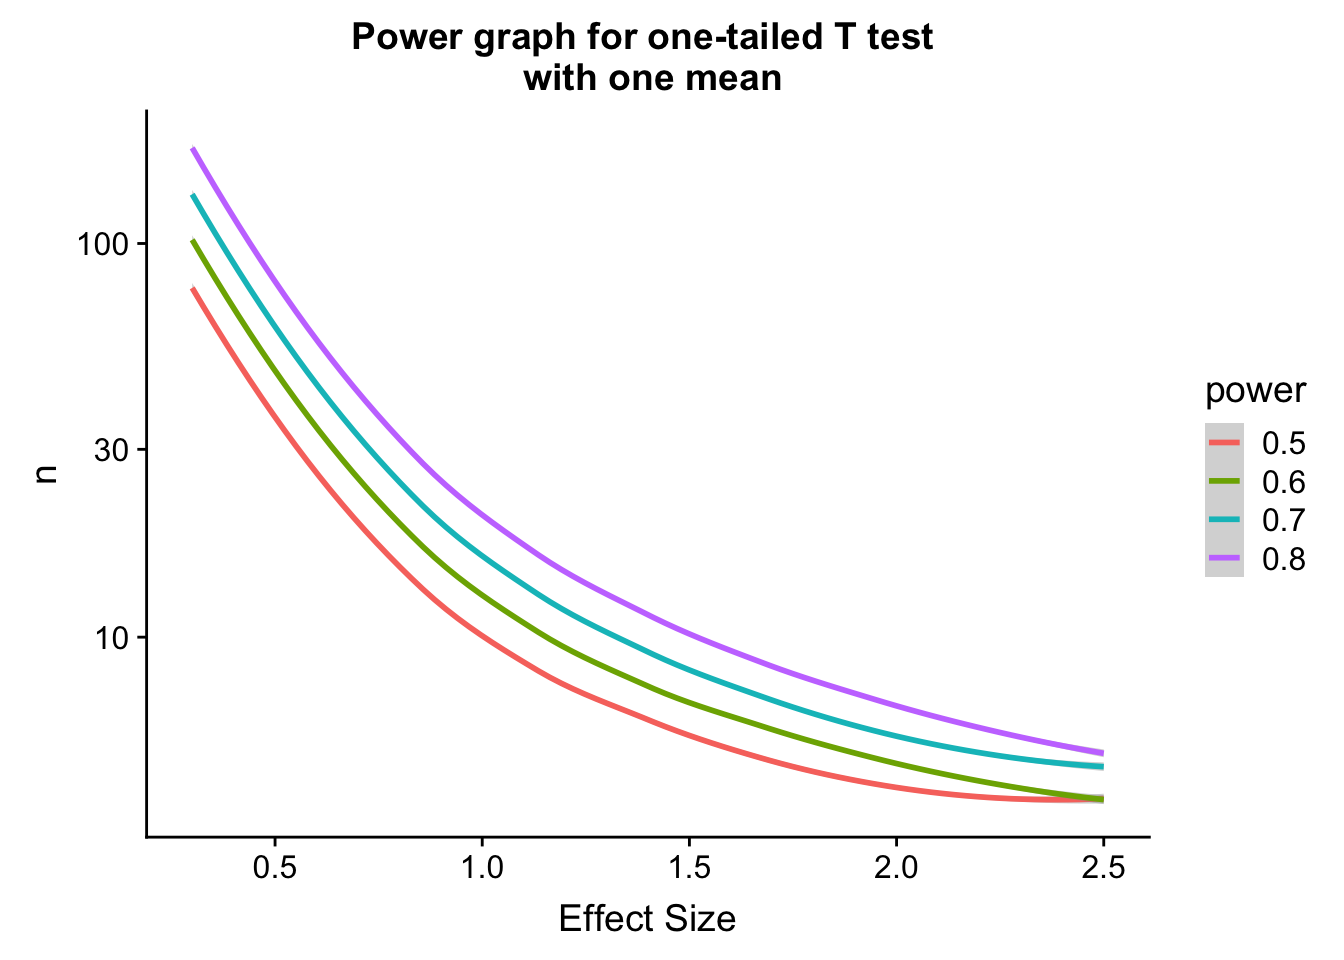
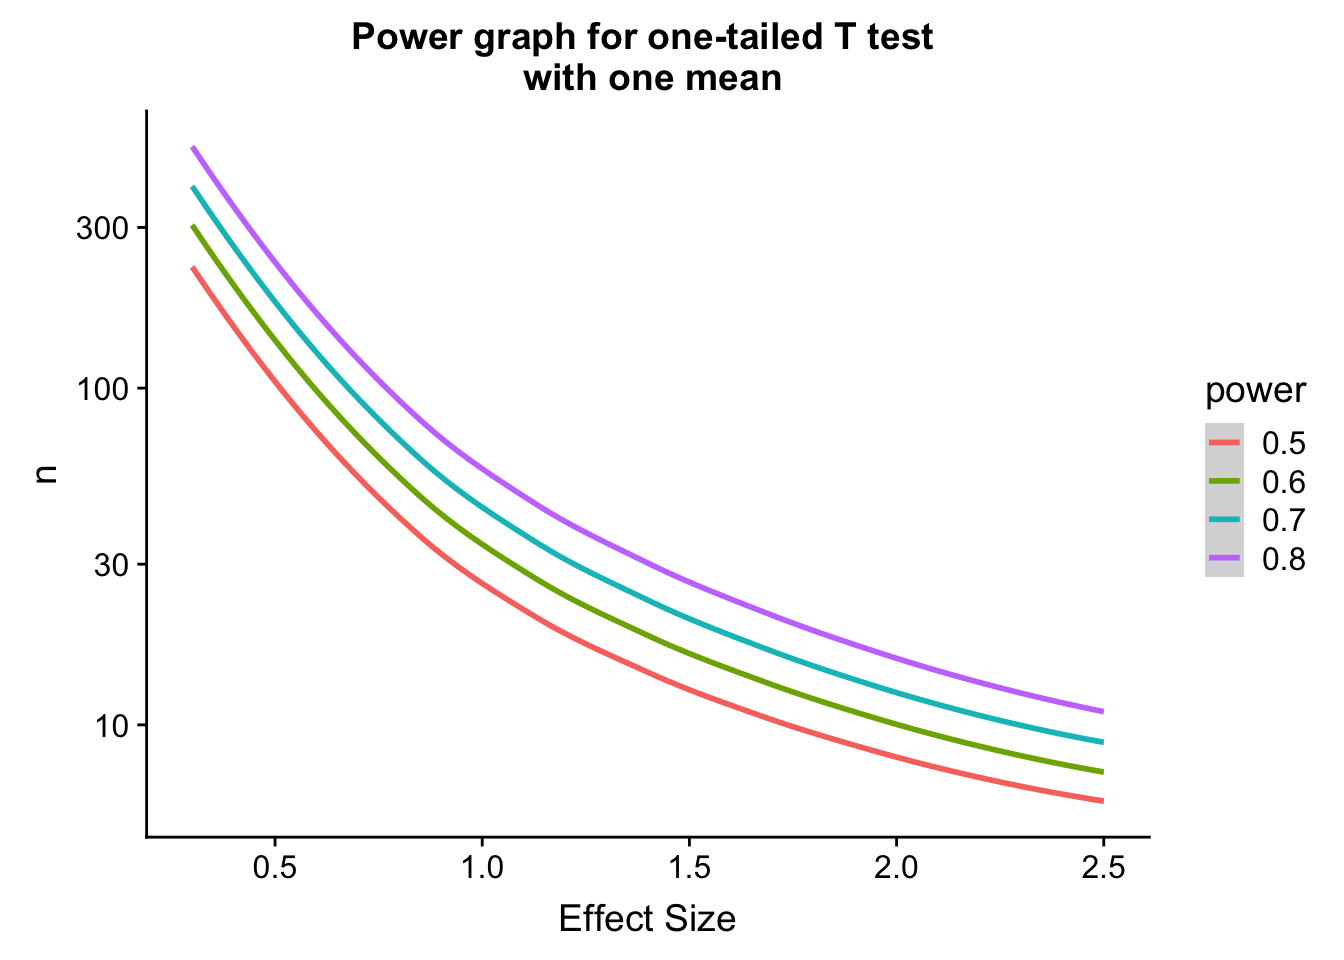
rephrase effect size definition

diff --git a/docs/powerAnalyses.html b/docs/powerAnalyses.html
@@ -375,7 +375,7 @@ div.section {
 
 <p>
 <button type="button" class="btn btn-default btn-workflowr btn-workflowr-report" data-toggle="collapse" data-target="#workflowr-report">
-<span class="glyphicon glyphicon-list" aria-hidden="true"></span> workflowr <span class="glyphicon glyphicon-ok text-success" aria-hidden="true"></span>
+<span class="glyphicon glyphicon-list" aria-hidden="true"></span> workflowr <span class="glyphicon glyphicon-exclamation-sign text-danger" aria-hidden="true"></span>
 </button>
 </p>
 <div id="workflowr-report" class="collapse">
@@ -384,7 +384,7 @@ div.section {
 <a data-toggle="tab" href="#summary">Summary</a>
 </li>
 <li>
-<a data-toggle="tab" href="#checks"> Checks <span class="glyphicon glyphicon-ok text-success" aria-hidden="true"></span> </a>
+<a data-toggle="tab" href="#checks"> Checks <span class="glyphicon glyphicon-exclamation-sign text-danger" aria-hidden="true"></span> </a>
 </li>
 <li>
 <a data-toggle="tab" href="#versions">Past versions</a>
@@ -396,7 +396,7 @@ div.section {
 <strong>Last updated:</strong> 2019-07-18
 </p>
 <p>
-<strong>Checks:</strong> <span class="glyphicon glyphicon-ok text-success" aria-hidden="true"></span> 6 <span class="glyphicon glyphicon-exclamation-sign text-danger" aria-hidden="true"></span> 0
+<strong>Checks:</strong> <span class="glyphicon glyphicon-ok text-success" aria-hidden="true"></span> 5 <span class="glyphicon glyphicon-exclamation-sign text-danger" aria-hidden="true"></span> 1
 </p>
 <p>
 <strong>Knit directory:</strong> <code>MSTPsummerstatistics/</code> <span class="glyphicon glyphicon-question-sign" aria-hidden="true" title="This is the local directory in which the code in this file was executed."> </span>
@@ -412,12 +412,12 @@ This reproducible <a href="http://rmarkdown.rstudio.com">R Markdown</a> analysis
 <div class="panel panel-default">
 <div class="panel-heading">
 <p class="panel-title">
-<a data-toggle="collapse" data-parent="#workflowr-checks" href="#strongRMarkdownfilestronguptodate"> <span class="glyphicon glyphicon-ok text-success" aria-hidden="true"></span> <strong>R Markdown file:</strong> up-to-date </a>
+<a data-toggle="collapse" data-parent="#workflowr-checks" href="#strongRMarkdownfilestronguncommittedchanges"> <span class="glyphicon glyphicon-exclamation-sign text-danger" aria-hidden="true"></span> <strong>R Markdown file:</strong> uncommitted changes </a>
 </p>
 </div>
-<div id="strongRMarkdownfilestronguptodate" class="panel-collapse collapse">
+<div id="strongRMarkdownfilestronguncommittedchanges" class="panel-collapse collapse">
 <div class="panel-body">
-<p>Great! Since the R Markdown file has been committed to the Git repository, you know the exact version of the code that produced these results.</p>
+<p>The R Markdown file has unstaged changes. To know which version of the R Markdown file created these results, you’ll want to first commit it to the Git repo. If you’re still working on the analysis, you can ignore this warning. When you’re finished, you can run <code>wflow_publish</code> to commit the R Markdown file and build the HTML.</p>
 </div>
 </div>
 </div>
@@ -472,10 +472,10 @@ This reproducible <a href="http://rmarkdown.rstudio.com">R Markdown</a> analysis
 <div class="panel panel-default">
 <div class="panel-heading">
 <p class="panel-title">
-<a data-toggle="collapse" data-parent="#workflowr-checks" href="#strongRepositoryversionstrongahrefhttpsgithubcomanthonyhungMSTPsummerstatisticstree3283a68805c2b723be0fbb7d2e3591091b8fdb3btargetblank3283a68a"> <span class="glyphicon glyphicon-ok text-success" aria-hidden="true"></span> <strong>Repository version:</strong> <a href="https://github.com/anthonyhung/MSTPsummerstatistics/tree/3283a68805c2b723be0fbb7d2e3591091b8fdb3b" target="_blank">3283a68</a> </a>
+<a data-toggle="collapse" data-parent="#workflowr-checks" href="#strongRepositoryversionstrongahrefhttpsgithubcomanthonyhungMSTPsummerstatisticstreea3aa9e0d23508c7eecdd5fc5f5a83a3f1f856fc7targetblanka3aa9e0a"> <span class="glyphicon glyphicon-ok text-success" aria-hidden="true"></span> <strong>Repository version:</strong> <a href="https://github.com/anthonyhung/MSTPsummerstatistics/tree/a3aa9e0d23508c7eecdd5fc5f5a83a3f1f856fc7" target="_blank">a3aa9e0</a> </a>
 </p>
 </div>
[2 lines of base64/hex data omitted]
 <div class="panel-body">
 <p>
 Great! You are using Git for version control. Tracking code development and connecting the code version to the results is critical for reproducibility. The version displayed above was the version of the Git repository at the time these results were generated. <br><br> Note that you need to be careful to ensure that all relevant files for the analysis have been committed to Git prior to generating the results (you can use <code>wflow_publish</code> or <code>wflow_git_commit</code>). workflowr only checks the R Markdown file, but you know if there are other scripts or data files that it depends on. Below is the status of the Git repository when the results were generated:
@@ -488,6 +488,9 @@ Ignored files:
     Ignored:    .Rproj.user/
     Ignored:    analysis/.RData
     Ignored:    analysis/.Rhistory
+
+Unstaged changes:
+    Modified:   analysis/powerAnalyses.Rmd
 
 </code></pre>
 <p>
@@ -526,6 +529,23 @@ Message
 </tr>
 </thead>
 <tbody>
+<tr>
+<td>
+html
+</td>
+<td>
+<a href="https://rawcdn.githack.com/anthonyhung/MSTPsummerstatistics/a3aa9e0d23508c7eecdd5fc5f5a83a3f1f856fc7/docs/powerAnalyses.html" target="_blank">a3aa9e0</a>
+</td>
+<td>
+Anthony Hung
+</td>
+<td>
+2019-07-18
+</td>
+<td>
+Build site.
+</td>
+</tr>
 <tr>
 <td>
 Rmd
@@ -1582,7 +1602,7 @@ Anthony Hung
 </div>
 <div id="factors-that-affect-power-4.-magnitude-of-the-effect-size" class="section level3">
 <h3>Factors that affect power: 4. Magnitude of the effect size</h3>
-<p>Returning to our base example, let’s assume that instead of an average tail feather number of 11, we had found an average of 10 tail feathers per bird in our sample (with the same standard deviation of 3 for our sample). This would mean that our effect size (the difference between our observation mean and the null distribution’s mean) would increase from <span class="math inline">\(11-12.5 = -1.5\)</span> to <span class="math inline">\(10-12.5 = -2.5\)</span>. The effect size is the deviation of an observation from the null hypothesis. Plotting this difference on the null sampling distribution:</p>
+<p>Returning to our base example, let’s assume that instead of an average tail feather number of 11, we had found an average of 10 tail feathers per bird in our sample (with the same standard deviation of 3 for our sample). This would mean that our effect size (the difference between our observation mean and the null distribution’s mean) would increase from <span class="math inline">\(\frac{11-12.5}{\frac{3}{\sqrt{10}}} = -1.5\)</span> to <span class="math inline">\(10-12.5 = -2.5\)</span>. The effect size is the deviation of an observation from the null hypothesis (scaled by the standard deviation). Plotting this difference on the null sampling distribution:</p>
 <pre class="r"><code>nextplot &lt;-  ggplot(data = data.frame(x = c(-5, 5)), aes(x)) + stat_function(fun = dnorm, args = list(mean = 0, sd = 3/sqrt(10)), color = &quot;red&quot;, linetype = &quot;solid&quot;) +
   geom_vline(xintercept=0, linetype = &quot;solid&quot;, color =&quot;red&quot;)
 threshold &lt;- (-1.833*3/sqrt(10))
@@ -1796,16 +1816,16 @@ Anthony Hung
 <p>The next step is important but may be difficult to conceptualize. <strong>In order for the purple area to be equal to our power of 0.80, we need the “distance” (in standard error units) between the mean of the alternative distribution and the significance level to be equal to the T statistic corresponding to the 20th percentile.</strong> Why does this make sense? Because the purple shaded area is defined as the area to the right of the significance level in the alternative distribution. The area to the right of the 20th percentile makes up 80% of the total area (0.80). Great! So we know our goal. How do we set our sample size to get to that goal?</p>
 <p>To start, we can take advantage of another measurement we have: the effect size. This is the difference between the mean of the null distribution and the alternative distribution. This is a great measuring stick to have because it is set: it will not change depending on the sample size, whereas the standard error of each distribution depends on n, which is the very quantity we are trying to estimate!</p>
 <p>In short, we need our effect size (scaled by standard error units) to equal the sum of the distance between the blue dotted line and the black dotted line and the distance between the black dotted line and the red dotted line (in standard error units). The distance between the mean of each distribution and another point scaled by standard error units is another way to phrase a T statistic. In other words:</p>
-<p><span class="math display">\[\frac{ES}{\frac{\sigma}{\sqrt{n}}} = T_{1-\alpha} + T_{1-\beta}\]</span></p>
+<p><span class="math display">\[\frac{ES}{\frac{\sigma^2}{\sqrt{n}}} = T_{1-\alpha} + T_{1-\beta}\]</span></p>
 <p><span class="math inline">\(T_{1-\alpha}\)</span> is the T statistic representing the distance between the blue dotted line and the black dotted line scaled in standard error units, while <span class="math inline">\(T_{1-\beta}\)</span> is the T statistic representing the distance between the black dotted line and the red dotted line scaled in standard error units. Rearranging to obtain an equation to solve for n, we get:</p>
-<p><span class="math display">\[n= (\frac{T_{1-\alpha} + T_{1-\beta}}{\frac{ES}{\sigma}})^2\]</span></p>
+<p><span class="math display">\[n= (\frac{T_{1-\alpha} + T_{1-\beta}}{\frac{ES}{\sigma^2}})^2\]</span></p>
 <p>Plugging in our known values (and looking up the T statistics using R using the qt() function), we can get the sample size required to obtain a power of 0.80.</p>
-<pre class="r"><code>qt(0.95, df = 9)</code></pre>
-<pre><code>[1] 1.833113</code></pre>
-<pre class="r"><code>qt(0.8, df = 9)</code></pre>
-<pre><code>[1] 0.8834039</code></pre>
-<p><span class="math display">\[n = (\frac{1.833113+0.8834039}{\frac{1.5}{\sqrt{3}}})^2 = 9.839285 \approx 10\]</span></p>
-<p>We need a sample size of at least 10 birds to obtain our desired power.</p>
+<pre class="r"><code>qt(0.95, df = 26)</code></pre>
+<pre><code>[1] 1.705618</code></pre>
+<pre class="r"><code>qt(0.8, df = 26)</code></pre>
+<pre><code>[1] 0.8556652</code></pre>
+<p><span class="math display">\[n = (\frac{1.833113+0.8834039}{\frac{1.5}{3}})^2 = 26.24069 \approx 27\]</span></p>
+<p>We need a sample size of at least 27 birds to obtain our desired power.</p>
 </div>
 <div id="power-analysis-using-the-pwr-package-in-r." class="section level2">
 <h2>Power analysis using the “pwr” package in R.</h2>
@@ -1813,12 +1833,12 @@ Anthony Hung
 <pre class="r"><code>#install.packages(&quot;pwr&quot;)
 library(pwr)
 
-pwr.t.test(n = NULL, d = abs(-1.5/sqrt(3)), sig.level = 0.05, power = 0.8, type = c(&quot;one.sample&quot;), alternative = c(&quot;greater&quot;))</code></pre>
+pwr.t.test(n = NULL, d = abs(-1.5/3), sig.level = 0.05, power = 0.8, type = c(&quot;one.sample&quot;), alternative = c(&quot;greater&quot;))</code></pre>
 <pre><code>
      One-sample t test power calculation 
 
-              n = 9.747036
-              d = 0.8660254
+              n = 26.13753
+              d = 0.5
       sig.level = 0.05
           power = 0.8
     alternative = greater</code></pre>
@@ -1838,7 +1858,7 @@ samsize &lt;- data.frame()
 for (i in 1:npower){
   for (j in 1:nES){
     result &lt;- pwr.t.test(n = NULL, 
-                         d = abs(ES[j]/sqrt(3)), 
+                         d = abs(ES[j]/3), 
                          sig.level = 0.05, 
                          power = power[i], 
                          type = c(&quot;one.sample&quot;), 
